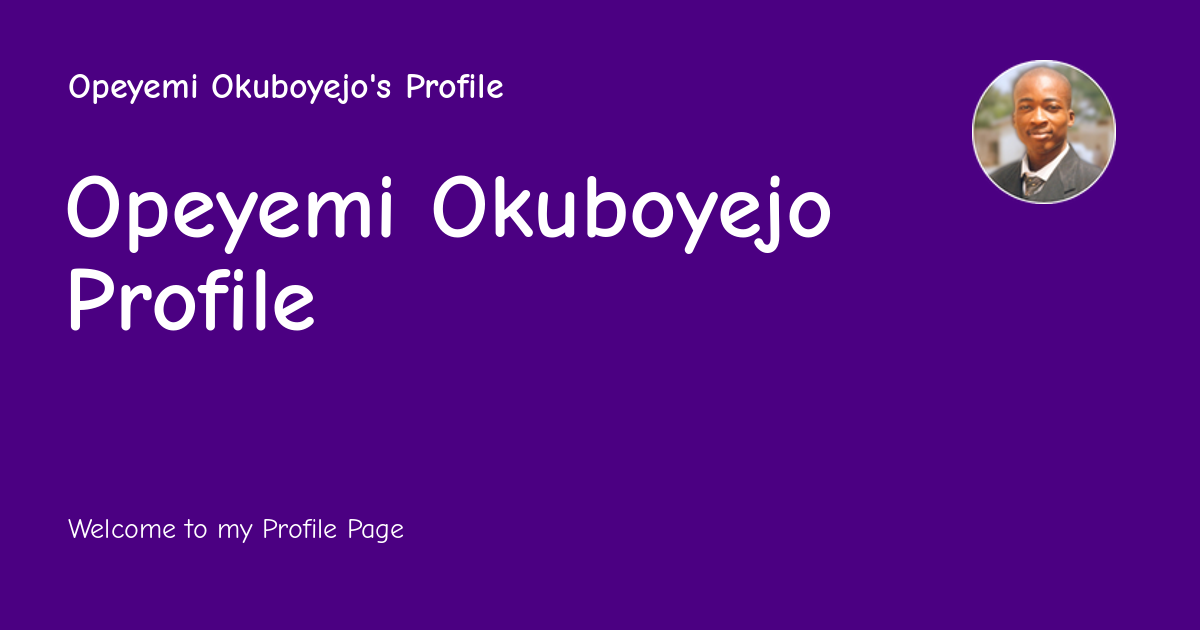
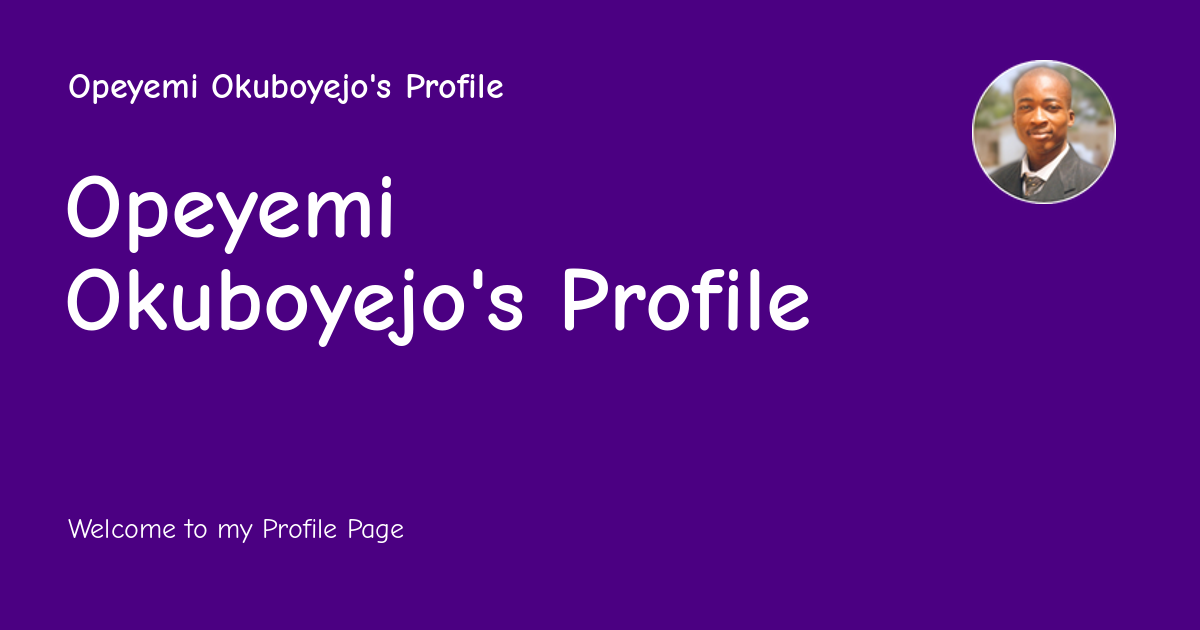
Deployed 865e1ea with MkDocs version: 1.6.1

Changed region(s): [[0.3392, 0.2714, 0.7092, 0.5429], [0.0617, 0.4222, 0.4317, 0.5429]]

diff --git a/profile/index.html b/profile/index.html
@@ -22,7 +22,7 @@
     
     
       
-        <title>Opeyemi Okuboyejo Profile - Opeyemi Okuboyejo's Profile</title>
+        <title>Opeyemi Okuboyejo's Profile - Opeyemi Okuboyejo's Profile</title>
       
     
     
@@ -71,7 +71,7 @@
       
         <meta  property="og:type"  content="website" >
       
-        <meta  property="og:title"  content="Opeyemi Okuboyejo Profile - Opeyemi Okuboyejo's Profile" >
+        <meta  property="og:title"  content="Opeyemi Okuboyejo's Profile - Opeyemi Okuboyejo's Profile" >
       
         <meta  property="og:description"  content="Welcome to my Profile Page" >
       
@@ -87,7 +87,7 @@
       
         <meta  name="twitter:card"  content="summary_large_image" >
       
-        <meta  name="twitter:title"  content="Opeyemi Okuboyejo Profile - Opeyemi Okuboyejo's Profile" >
+        <meta  name="twitter:title"  content="Opeyemi Okuboyejo's Profile - Opeyemi Okuboyejo's Profile" >
       
         <meta  name="twitter:description"  content="Welcome to my Profile Page" >
       
@@ -219,7 +219,7 @@
         <div class="md-header__topic" data-md-component="header-topic">
           <span class="md-ellipsis">
             
-              Opeyemi Okuboyejo Profile
+              Opeyemi Okuboyejo's Profile
             
           </span>
         </div>
@@ -971,7 +971,7 @@
 <h2 id="about-me"><strong>About Me</strong><a class="headerlink" href="#about-me" title="Anchor Link to this paragraph">&para;</a></h2>
 <h2>Hello, I'm Opeyemi Okuboyejo</h2>
 
-<p><a href="https://opeyemitech.pro"><img alt="Typing SVG" src="../assets/external/readme-typing-svg.demolab.com/..629ea19b.svg"></a></p>
+<p><a href="https://opeyemitech.pro"><img alt="Typing SVG" src="../assets/external/readme-typing-svg.demolab.com/..8ff5fb97.svg"></a></p>
 <p>I am an AWS Certified Solutions Architect with expertise in designing resilient distributed systems. My proficiency extends to Microsoft technologies, where I've successfully implemented solutions for medium to large-scale organizations. With over 15 years in the IT industry, I possess a strong background in DevOps &amp; Cloud Engineering, Systems &amp; Network administration, and more. My passion for learning is evident in my trend research and mentoring activities, showcasing my entrepreneurial leadership abilities.</p>
 <p>Tools &amp; Technologies: AWS, Azure, GCP, Linux, Kubernetes, Docker, Git, VMware, MySQL, Windows Server
 Industry Knowledge: Linux Admin, Cloud Infrastructure, Cloud Services, Database Administration, Webmin Web Server, Network Administration, Wordpress
@@ -1163,7 +1163,7 @@ Supplied and configured servers, LAN, WAN, wireless networks, and end-user devic
     <span class="md-icon" title="Last update">
       <svg xmlns="http://www.w3.org/2000/svg" viewBox="0 0 24 24"><path d="M21 13.1c-.1 0-.3.1-.4.2l-1 1 2.1 2.1 1-1c.2-.2.2-.6 0-.8l-1.3-1.3c-.1-.1-.2-.2-.4-.2m-1.9 1.8-6.1 6V23h2.1l6.1-6.1zM12.5 7v5.2l4 2.4-1 1L11 13V7zM11 21.9c-5.1-.5-9-4.8-9-9.9C2 6.5 6.5 2 12 2c5.3 0 9.6 4.1 10 9.3-.3-.1-.6-.2-1-.2s-.7.1-1 .2C19.6 7.2 16.2 4 12 4c-4.4 0-8 3.6-8 8 0 4.1 3.1 7.5 7.1 7.9l-.1.2z"/></svg>
     </span>
-    <span class="git-revision-date-localized-plugin git-revision-date-localized-plugin-timeago"><span class="timeago" datetime="2024-12-05T20:27:25+00:00" locale="en"></span></span><span class="git-revision-date-localized-plugin git-revision-date-localized-plugin-iso_date">2024-12-05</span>
+    <span class="git-revision-date-localized-plugin git-revision-date-localized-plugin-timeago"><span class="timeago" datetime="2024-12-05T20:34:55+00:00" locale="en"></span></span><span class="git-revision-date-localized-plugin git-revision-date-localized-plugin-iso_date">2024-12-05</span>
   </span>
 
     
